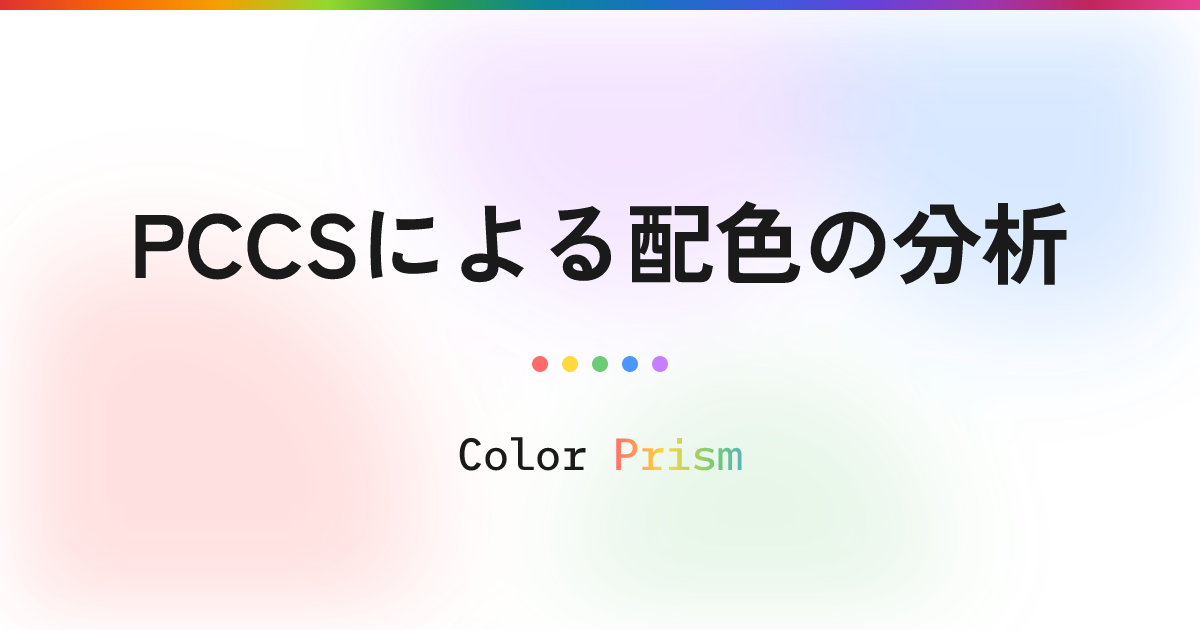
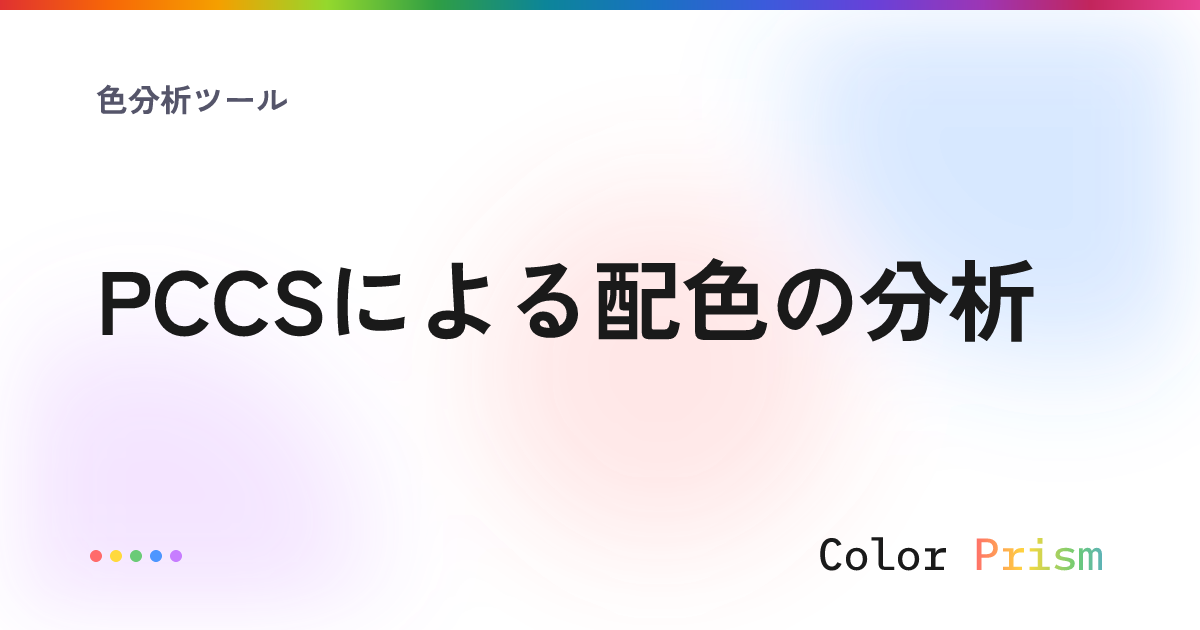
approximate・analyzeのOGP画像をnestedにしてパンくずを付ける
色分析ツールの2ページ（色のPCCS近似・PCCSによる配色の分析）を nested に
してパンくず「色分析ツール」を出したい、という依頼を受けての変更。
title-only だと画面中央にタイトルとサイト名が並ぶだけで、サイト内での
位置づけが伝わらなかった。

config.mjs では title-only の節から外し、「色分析ツール」の節を新設して
nested・figure: "none" にした。一覧ページを持たない単体ツールなので、
パンくずには総称の「色分析ツール」を充てている。図版は依頼が nested
だったのでそのまま入れていない（必要になれば nested-fig に変えられる）。

タイトルは nested の maxWidth 1008 に対して「PCCSによる配色の分析」が
10.48em、「色のPCCS近似」が 6.48em なので、どちらも 90px のまま1行に
収まる。改行の指定は不要だった。

あわせて、generate-ogp-image の解決リファレンス表で前回反映し忘れていた
games の行（title-only → nested-fig・パンくず「色を見分けるゲーム」）を
直し、figure: "required" の列挙にも games を足した。

未 push コミットに app 配下の変更が含まれるため、規約に従い CI スキップ
指示は付けない。

diff --git a/.claude/skills/generate-ogp-image/SKILL.md b/.claude/skills/generate-ogp-image/SKILL.md
@@ -131,7 +131,7 @@ cd ogimage && npm install && npm run fonts && cd ..
   - **svx ページなら、`<script>` 内で import している図版候補（`$lib/demo/**` のコンポーネント）を一覧提示**し、どれを入れたいか尋ねる。
     Svelte デモの自動 SVG 化は行わない方針のため、**ユーザーが用意した図版 PNG のパスを受け取る**（自己完結した手渡し画像）。
   - **図版候補が無い場合（`<script>` が無い／`$lib/demo/**` の import が無い svx）は、要否を確認せず図版なし（`nested`）で生成する。** 手渡しの図版パスが無ければ入れようがないため、この場合は対話を省く。ユーザーが明示的に図版を求めたときだけ、手渡し PNG のパスを受け取って `nested-fig` にする。
-- `figure: "required"`（`/jis-color-map/<family>`, `/patterns/<theme>`）: 定型プレビュー。当面は**ユーザーが用意した手渡し PNG のパスを受け取る**。
+- `figure: "required"`（`/jis-color-map/<family>`, `/patterns/<theme>`, `/games/<slug>`）: 定型プレビュー。当面は**ユーザーが用意した手渡し PNG のパスを受け取る**。
 - 一括処理中でも、図版の要否は**ページごとに確認**する（改行案の一括承認とは別）。
 
 > **ダーク（`theme: "dark"`）のルートの図版**: CG 配下は地色 `#26282d` のダークなので、**白背景の図版は暗地に白い箱として浮く**。`knockoutWhite` で白を抜いても線画が暗色だと今度は読めなくなるため、透過では解決しない。ダークのルートでは**図版側も暗地（できれば同じ `#26282d`）**で用意してもらう。Three.js デモのスクリーンショットはそのまま条件を満たす。
@@ -270,14 +270,14 @@ render.mjs は nested-fig の図版を `ogimage/data/assets/<route>/figure.<ext>
 | `/color-theory`, `/color-fields`, `/jis-color-map`, `/cg` | title-only | `app/src/lib/meta/site-nav.ts` の該当 NAV アイテム label（色の理論 / 色の活用分野 / 慣用色名マップ / CGと画像処理） | — |
 | `/patterns` | title-only | 「配色シミュレータ」（`app/src/routes/patterns/+page.svelte` の `<title>`） | — |
 | `/jis-color-map/all` | title-only | 「すべての慣用色名一覧」（`+page.svelte` の `<title>`） | — |
-| `/games/<slug>` | title-only | `app/src/routes/games/<slug>/+page.svelte` の `<title>` からサフィックス除去 | — |
-| `/approximate`, `/analyze` | title-only | 各 `+page.svelte` の `<title>` からサフィックス除去 | — |
+| `/approximate`, `/analyze` | nested | 各 `+page.svelte` の `<title>` からサフィックス除去 | `["色分析ツール"]`（一覧ページを持たない単体ツールなので総称を充てる） |
 | `/color-theory/<slug>` | nested / nested-fig | `+page.svx` フロントマターの `title` | `["色の理論", <category>]`。category は `app/src/lib/content-pages/color-theory.yaml` の該当カテゴリ `title`（`colorTheoryCategoryBySlug` と同じ対応）。該当なしなら `["色の理論"]` |
 | `/color-fields/<slug>` | nested / nested-fig | `+page.svx` フロントマターの `title` | `["色の活用分野", <category>]`（`color-fields.yaml` / `colorFieldsCategoryBySlug`）。該当なしなら `["色の活用分野"]` |
 | `/cg/<unit>` | nested | `app/src/lib/content-pages/cg/<unit>.yaml` の先頭 `title` | `["CGと画像処理"]` |
 | `/cg/<unit>/<article>` | nested / nested-fig | `+page.svx` フロントマターの `title` | `["CGと画像処理", <unit title>]`（unit title は `cg/<unit>.yaml` の先頭 `title`） |
 | `/jis-color-map/<family>` | nested-fig | `app/src/lib/data/jis-colors` の `JIS_COLOR_FAMILIES` から id 一致の `name`（例:「<name>の慣用色名マップ」） | `["慣用色名マップ"]` |
 | `/patterns/<theme>` | nested-fig | patterns のテーマ定義（`/patterns/[theme]/+page.ts` が読む labelJa） | `["配色シミュレータ"]` |
+| `/games/<slug>` | nested-fig | `app/src/routes/games/<slug>/+page.svelte` の `<title>` からサフィックス除去 | `["色を見分けるゲーム"]`（一覧ページを持たないので総称を充てる） |
 
 - サフィックス除去: `<title>` から末尾の `— Color Prism` / `- Color Prism` を取り除く。
 - crumbs のトップ区分は一覧ページ名（`色の理論` など）で、オンページのパンくず（カテゴリのみ）に**トップ区分を足したもの**。
